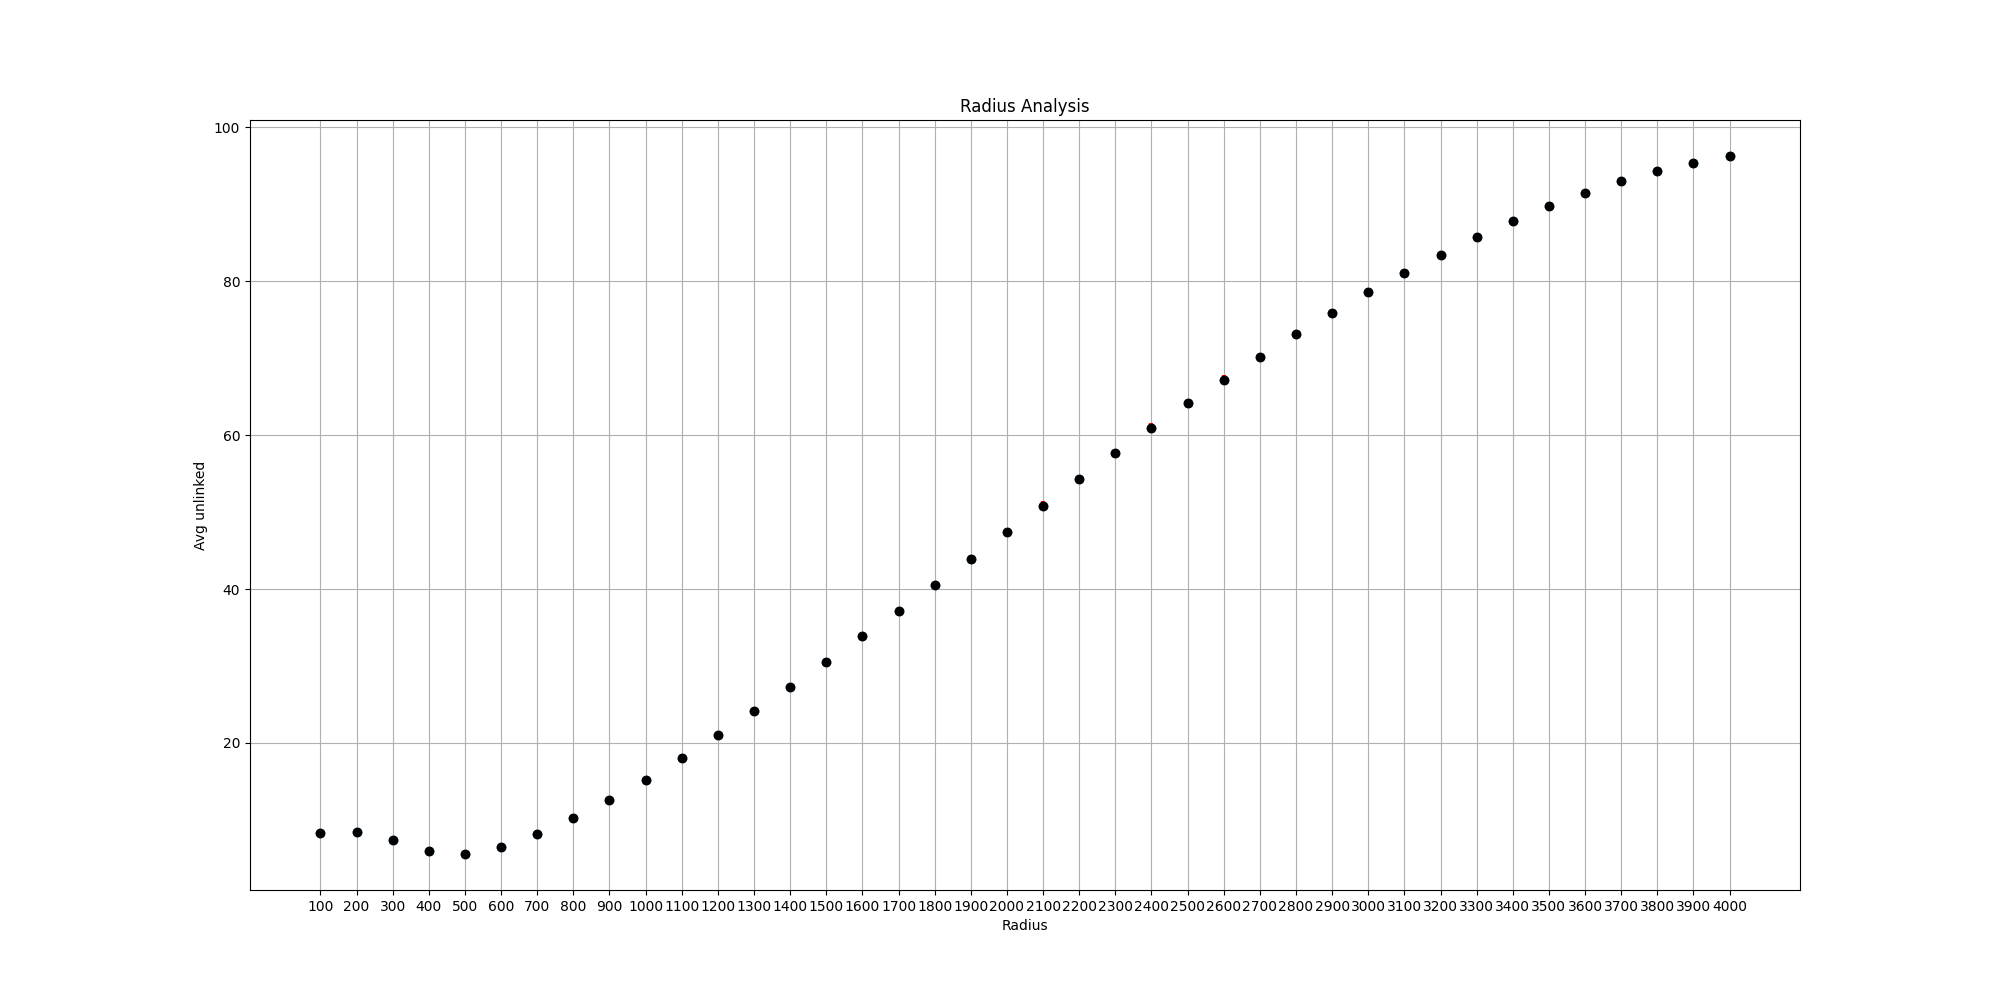
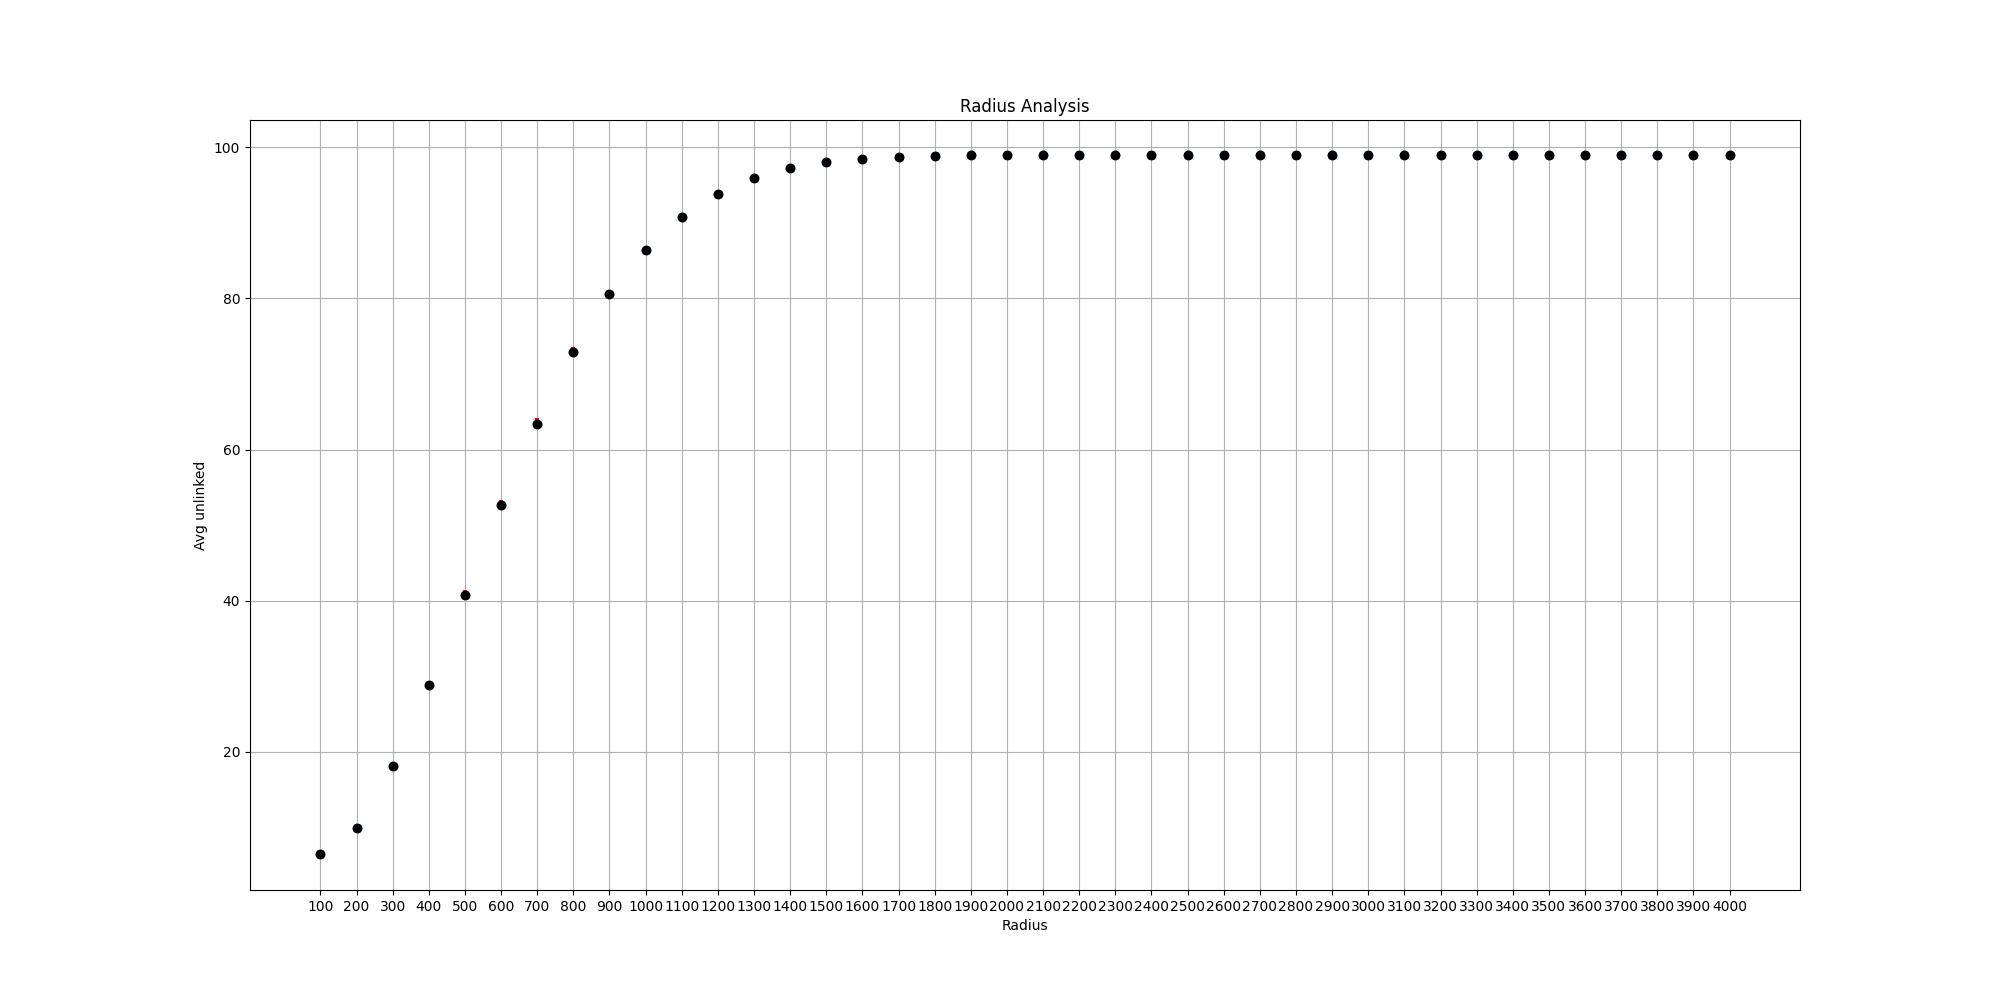
Aggiunto il supporto alla distribzione normale!

diff --git a/src/User.cc b/src/User.cc
@@ -26,8 +26,37 @@ void User::initialize(int stage)
 
         gate("radioIn")->setDeliverOnReceptionStart(true);
 
-        this->posX = par("posX").doubleValue();
-        this->posY = par("posY").doubleValue();
+        int distributionType = par("distributionType").intValue();
+        int RNGPosition = par("RNGPosition").intValue();
+
+
+
+        if(distributionType == 0){              //Uniform
+
+            int XLimit = par("XLimit").intValue();
+            int YLimit = par("YLimit").intValue();
+
+            this->posX = uniform (0, XLimit, RNGPosition);
+            this->posY = uniform (0, YLimit, RNGPosition);
+
+        } else if(distributionType == 1){       //Normal
+
+            double mean = par("mean").doubleValue();
+            double stdDev = par("stdDev").doubleValue();
+
+            this->posX = normal (mean, stdDev, RNGPosition);
+            this->posY = normal (mean, stdDev, RNGPosition);
+
+        }
+
+
+        //this->posX = par("posX").doubleValue();
+        //this->posY = par("posY").doubleValue();
+
+        cDisplayString& dispStr = this->getDisplayString();
+        dispStr.setTagArg("p", 0, this->posX);
+        dispStr.setTagArg("p", 1, this->posY);
+
 
         this->nNeighbours = par("nNeighbours").intValue();
 

diff --git a/src/Oracle.cc b/src/Oracle.cc
@@ -124,10 +124,26 @@ namespace epidemicbroadcast {
     }
 
     void Oracle::redropUser(User* user){
-       // user->posX = intuniform(0,this->XLimit,this->RNGPosition);
-       // user->posY = intuniform(0,this->YLimit,this->RNGPosition);
-        user->posX = uniform(0,this->XLimit,this->RNGPosition);
-        user->posY = uniform(0,this->YLimit,this->RNGPosition);
+
+
+        int distributionType = par("distributionType").intValue();
+
+        if(distributionType == 0){              //Uniform
+            user->posX = uniform (0, XLimit, RNGPosition);
+            user->posY = uniform (0, YLimit, RNGPosition);
+        } else if(distributionType == 1){       //Normal
+
+            double mean     = par("mean").doubleValue();
+            double stdDev   = par("stdDev").doubleValue();
+
+            user->posX = normal (mean, stdDev, RNGPosition);
+            user->posY = normal (mean, stdDev, RNGPosition);
+
+        }
+
+
+        //user->posX = uniform(0,this->XLimit,this->RNGPosition);
+        //user->posY = uniform(0,this->YLimit,this->RNGPosition);
         cDisplayString& dispStr = user->getDisplayString();
         dispStr.setTagArg("p", 0, user->posX);
         dispStr.setTagArg("p", 1, user->posY);
